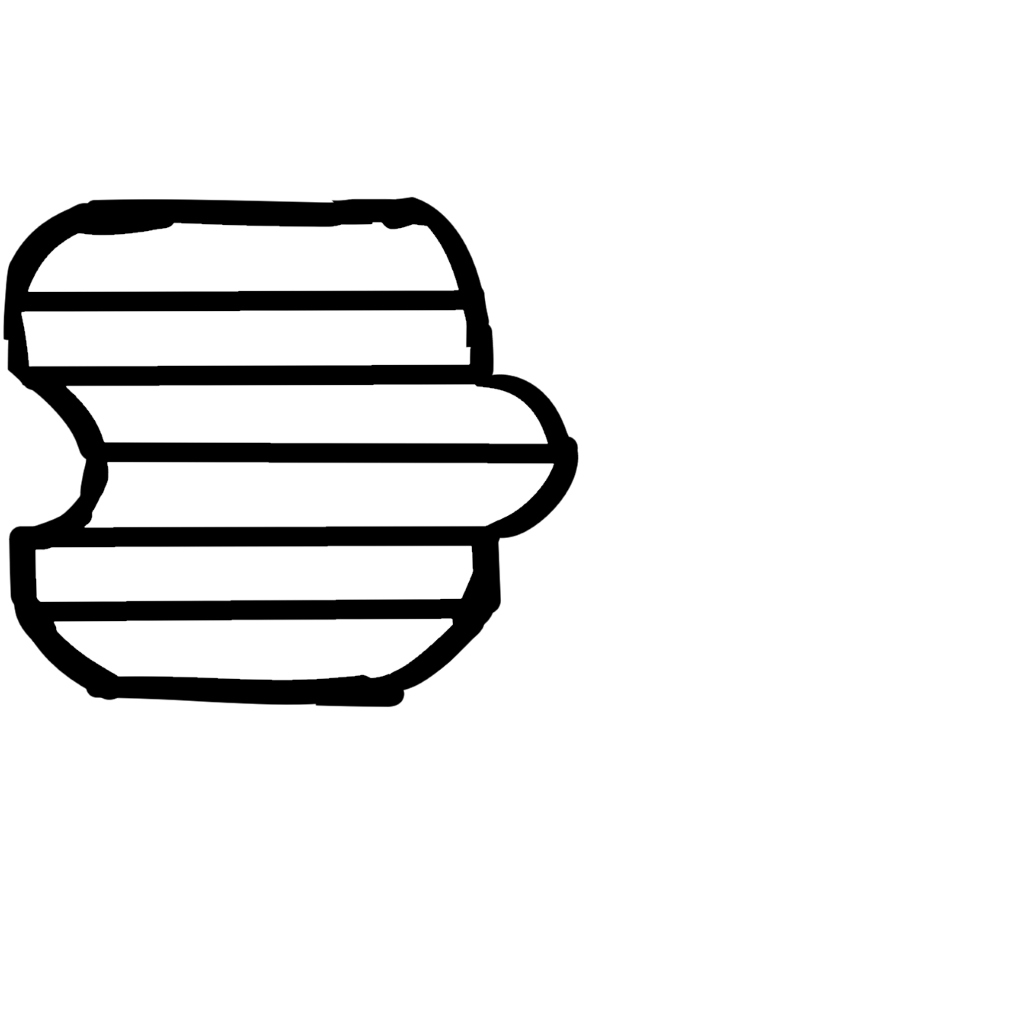
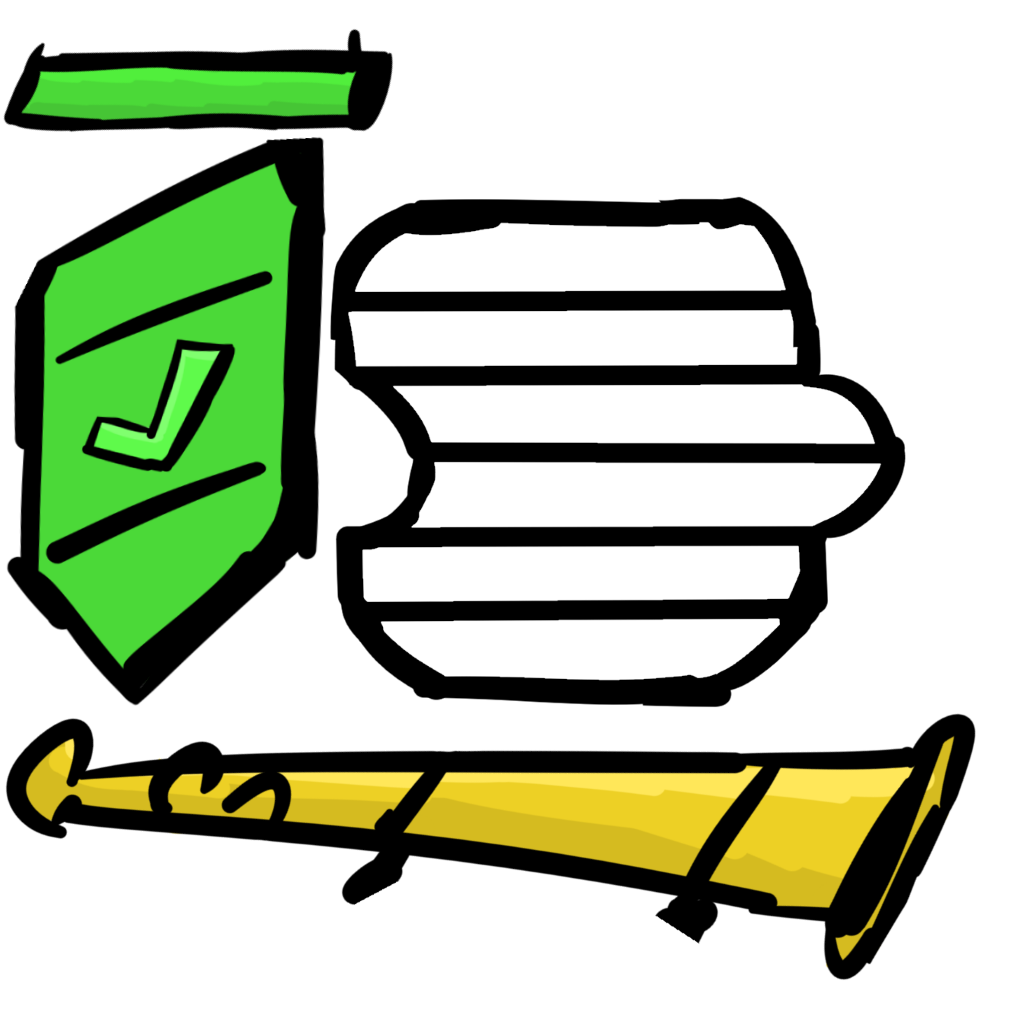
Add some new assets

diff --git a/core/src/edu/edwinhollen/doremi/GameStage.java b/core/src/edu/edwinhollen/doremi/GameStage.java
@@ -1,5 +1,6 @@
 package edu.edwinhollen.doremi;
 
+import com.badlogic.gdx.Input;
 import com.badlogic.gdx.assets.AssetManager;
 import com.badlogic.gdx.audio.Sound;
 import com.badlogic.gdx.graphics.Color;
@@ -9,6 +10,7 @@ import com.badlogic.gdx.math.Interpolation;
 import com.badlogic.gdx.math.Vector2;
 import com.badlogic.gdx.scenes.scene2d.*;
 import com.badlogic.gdx.scenes.scene2d.actions.Actions;
+import com.badlogic.gdx.scenes.scene2d.actions.SequenceAction;
 import com.badlogic.gdx.scenes.scene2d.ui.HorizontalGroup;
 import com.badlogic.gdx.scenes.scene2d.ui.Image;
 import com.badlogic.gdx.scenes.scene2d.ui.Label;
@@ -36,39 +38,7 @@ public class GameStage extends Stage {
     Group notePieces;
     HorizontalGroup solutionSlots;
     HorizontalGroup topBar;
-
-    public boolean checkSolution(){
-        List<Actor> correctNotePieces = new LinkedList<Actor>();
-        for(int i = 0; i < solutionSlots.getChildren().size; i++){
-            Actor solutionSlot = solutionSlots.getChildren().get(i);
-            if(solutionSlot.getUserObject() == null || !(((Note) solutionSlot.getUserObject()).equals(puzzle.getSolutionNotes().get(i)))) return false;
-        }
-        puzzleStatistics.setEndTime(new Date());
-
-        int popOrder = 0;
-        for(Actor notePiece : notePieces.getChildren()){
-            notePiece.clearListeners();
-            if(!this.puzzle.getSolutionNotes().contains((Note) notePiece.getUserObject())){
-                notePiece.addAction(Actions.sequence(
-                    Actions.delay(++popOrder * 0.1f),
-                    Actions.scaleTo(1.25f, 1.25f, 0.4f),
-                    Actions.scaleTo(0f, 0f, 0.1f),
-                    Actions.run(new Runnable() {
-                        @Override
-                        public void run() {
-                            assetManager.get("sounds/pop.mp3", Sound.class).play(1.0f, 1.75f, 1.0f);
-                        }
-                    }),
-                    Actions.removeActor()
-                ));
-            }
-        }
-
-        solved = true;
-        assetManager.get("sounds/yay.mp3", Sound.class).play(1.0f);
-        return true;
-    }
-
+    // Group hornGroupLeft, hornGroupRight, hornGroups;
 
     public GameStage(Viewport viewport, Batch batch) {
         super(viewport, batch);
@@ -86,6 +56,14 @@ public class GameStage extends Stage {
         assetManager.load("sounds/yay.mp3", Sound.class);
         assetManager.load("sounds/pop.mp3", Sound.class);
         assetManager.load("sounds/click.mp3", Sound.class);
+
+        addListener(new InputListener(){
+            @Override
+            public boolean keyDown(InputEvent event, int keycode) {
+                if(keycode == Input.Keys.F1) endSequence();
+                return super.keyDown(event, keycode);
+            }
+        });
 
         // handle solution notes
         solutionNoteActors = new LinkedList<Actor>();
@@ -164,7 +142,7 @@ public class GameStage extends Stage {
                     break;
                 case B_FLAT:
                 case B_NATURAL:
-                    y = 0.509f;
+                    y = note.getOctave() < 3 ? 0.509f : 0.989f;
             }
 
             y = y - 0.1f;
@@ -214,7 +192,11 @@ public class GameStage extends Stage {
                         if(solutionSlot.getUserObject() != null && solutionSlot.getUserObject().equals(event.getListenerActor().getUserObject())){
                             solutionSlot.setUserObject(null);
                             assetManager.get("sounds/pop.mp3", Sound.class).play(1.0f, 1.0f + (((float) Pick.integer(-10, 10) / 100f)), 1.0f);
-                            actor.addAction(Actions.sequence(Actions.scaleTo(1.25f, 1.25f, 0.075f), Actions.scaleTo(1.0f, 1.0f, 0.075f)));
+                            actor.addAction(Actions.sequence(
+                                    Actions.scaleTo(0.9f, 0.35f, 0.01f),
+                                    Actions.scaleTo(1.4f, 1.4f, 0.075f),
+                                    Actions.scaleTo(1.0f, 1.0f, 0.075f))
+                            );
                             break;
                         }
                     }
@@ -254,17 +236,29 @@ public class GameStage extends Stage {
                         actor.addAction(Actions.sequence(
                                 Actions.moveTo(
                                     nearestSolutionSlot.localToStageCoordinates(new Vector2()).x,
-                                    nearestSolutionSlot.localToStageCoordinates(new Vector2()).y + nearestSolutionSlot.getHeight() * 0.1f,
-                                    0.05f
+                                    nearestSolutionSlot.localToStageCoordinates(new Vector2()).y + nearestSolutionSlot.getHeight() * 0.25f,
+                                    0.025f
                                 ),
-                                Actions.moveTo(
+                                Actions.parallel(
+                                    Actions.moveTo(
                                     nearestSolutionSlot.localToStageCoordinates(new Vector2()).x,
                                     nearestSolutionSlot.localToStageCoordinates(new Vector2()).y,
-                                    0.05f
+                                    0.075f
+                                    ),
+                                    Actions.sequence(
+                                        Actions.scaleTo(0.75f, 0.35f, 0.075f),
+                                        Actions.scaleTo(1.2f, 1.2f, 0.075f),
+                                        Actions.scaleTo(1.0f, 1.0f, 0.075f)
+                                    ),
+                                    Actions.delay(0.015f, Actions.run(new Runnable() {
+                                        @Override
+                                        public void run() {
+                                            assetManager.get("sounds/click.mp3", Sound.class).play(1.0f, 1.0f + (((float) Pick.integer(-10, 10) / 100f)), 1.0f);
+                                        }
+                                    }))
                                 )
                         ));
                         nearestSolutionSlot.setUserObject(actor.getUserObject());
-                        assetManager.get("sounds/click.mp3", Sound.class).play(1.0f, 1.0f + (((float) Pick.integer(-10, 10) / 100f)), 1.0f);
                         checkSolution();
                     }
                     super.dragStop(event, x, y, pointer);
@@ -376,5 +370,101 @@ public class GameStage extends Stage {
         }
         getBatch().end();
         */
+    }
+
+
+    public void endSequence(){
+        assetManager.get("sounds/yay.mp3", Sound.class).play(1.0f);
+
+        // do the actions
+        // horns and flags
+        Group hornGroups = new Group();
+        hornGroups.setSize(getViewport().getWorldWidth(), getViewport().getWorldHeight());
+        Group hornGroupLeft = new Group();
+        Group hornGroupRight = new Group();
+
+        // horn group left
+        Image horn = new Image(DoReMi.sprites.findRegion("horn"));
+        Image flagRoll = new Image(DoReMi.sprites.findRegion("flagroll"));
+        Image flag = new Image(DoReMi.sprites.findRegion("flag"));
+
+        horn.setRotation(38f);
+
+        flagRoll.setOrigin(Align.top);
+        flagRoll.setRotation(28f);
+        flagRoll.setPosition(horn.getWidth() * 0.16f, horn.getHeight() * 1.2f);
+        flagRoll.addAction(Actions.sequence(
+                Actions.delay(1.75f),
+                Actions.scaleTo(1.0f, 0.8f, 0.2f),
+                Actions.fadeOut(0.075f)
+        ));
+
+        flag.setOrigin(Align.top);
+        flag.setRotation(2f);
+        flag.setPosition(horn.getWidth() * 0.20f, horn.getHeight() * - 0.4f);
+        flag.setVisible(false);
+        flag.addAction(Actions.sequence(
+            Actions.delay(1.75f),
+            Actions.scaleTo(1.0f, 0f),
+            Actions.visible(true),
+            Actions.scaleTo(1.0f, 1.4f, 0.1f),
+            Actions.scaleTo(1.0f, 1.0f, 0.1f)
+        ));
+
+        hornGroupLeft.addActor(horn);
+        hornGroupLeft.addActor(flag);
+        hornGroupLeft.addActor(flagRoll);
+
+        hornGroupLeft.setPosition(getViewport().getWorldWidth() * 0.25f, getViewport().getWorldHeight() * 0.5f);
+        hornGroupLeft.setOrigin(Align.left);
+        hornGroupLeft.addAction(Actions.sequence(
+                Actions.delay(0.65f),
+                Actions.scaleTo(1.1f, 1.0f, 0.05f),
+                Actions.delay(0.1f),
+                Actions.scaleTo(1.0f, 1.0f, 0.08f),
+                Actions.scaleTo(1.1f, 1.0f, 0.05f),
+                Actions.delay(0.1f),
+                Actions.scaleTo(1.0f, 1.0f, 0.08f),
+                Actions.scaleTo(1.2f, 1.0f, 0.05f),
+                Actions.delay(0.75f),
+                Actions.scaleTo(1.0f, 1.0f, 0.1f)
+        ));
+
+        hornGroups.addActor(hornGroupLeft);
+        hornGroups.addActor(hornGroupRight);
+
+        addActor(hornGroups);
+    }
+
+    public boolean checkSolution(){
+        List<Actor> correctNotePieces = new LinkedList<Actor>();
+        for(int i = 0; i < solutionSlots.getChildren().size; i++){
+            Actor solutionSlot = solutionSlots.getChildren().get(i);
+            if(solutionSlot.getUserObject() == null || !(((Note) solutionSlot.getUserObject()).equals(puzzle.getSolutionNotes().get(i)))) return false;
+        }
+        puzzleStatistics.setEndTime(new Date());
+
+        int popOrder = 0;
+        for(Actor notePiece : notePieces.getChildren()){
+            notePiece.clearListeners();
+            if(!this.puzzle.getSolutionNotes().contains((Note) notePiece.getUserObject())){
+                notePiece.addAction(Actions.sequence(
+                        Actions.delay(++popOrder * 0.05f),
+                        Actions.scaleTo(1.25f, 1.25f, 0.4f),
+                        Actions.scaleTo(0f, 0f, 0.1f),
+                        Actions.run(new Runnable() {
+                            @Override
+                            public void run() {
+                                assetManager.get("sounds/pop.mp3", Sound.class).play(1.0f, 1.75f, 1.0f);
+                            }
+                        }),
+                        Actions.removeActor()
+                ));
+            }
+        }
+
+        solved = true;
+        endSequence();
+        return true;
     }
 }
